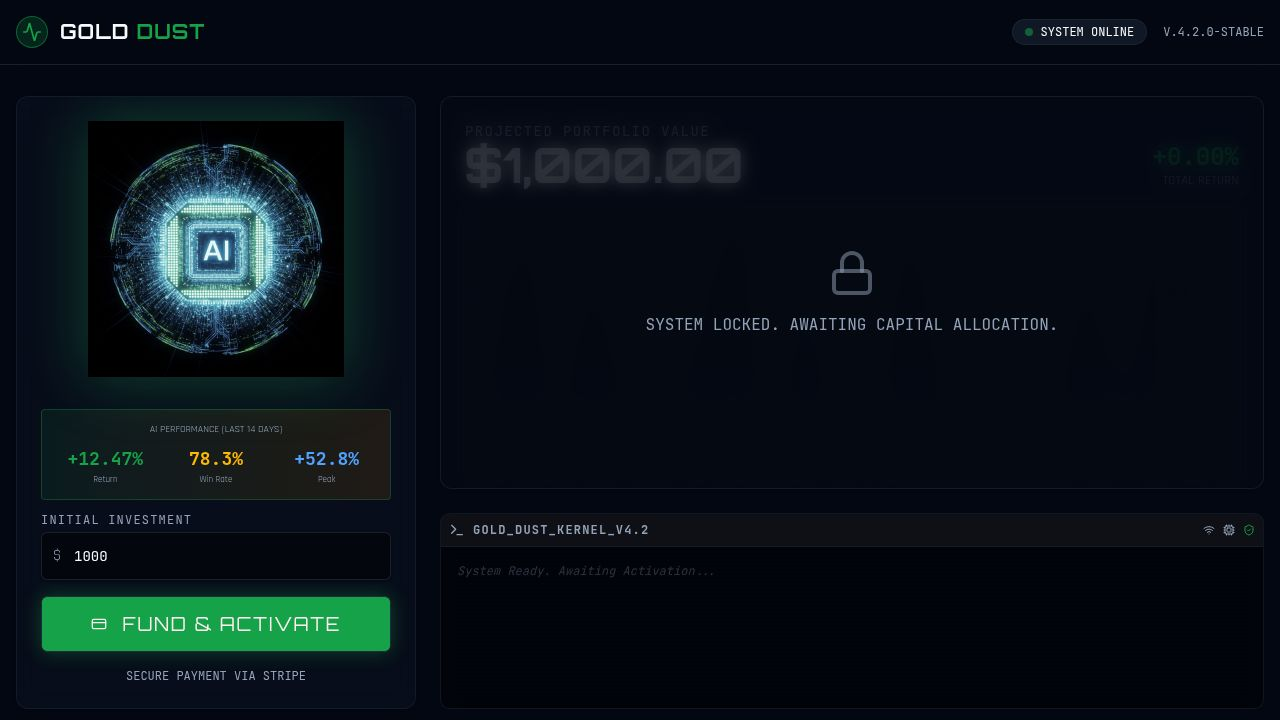
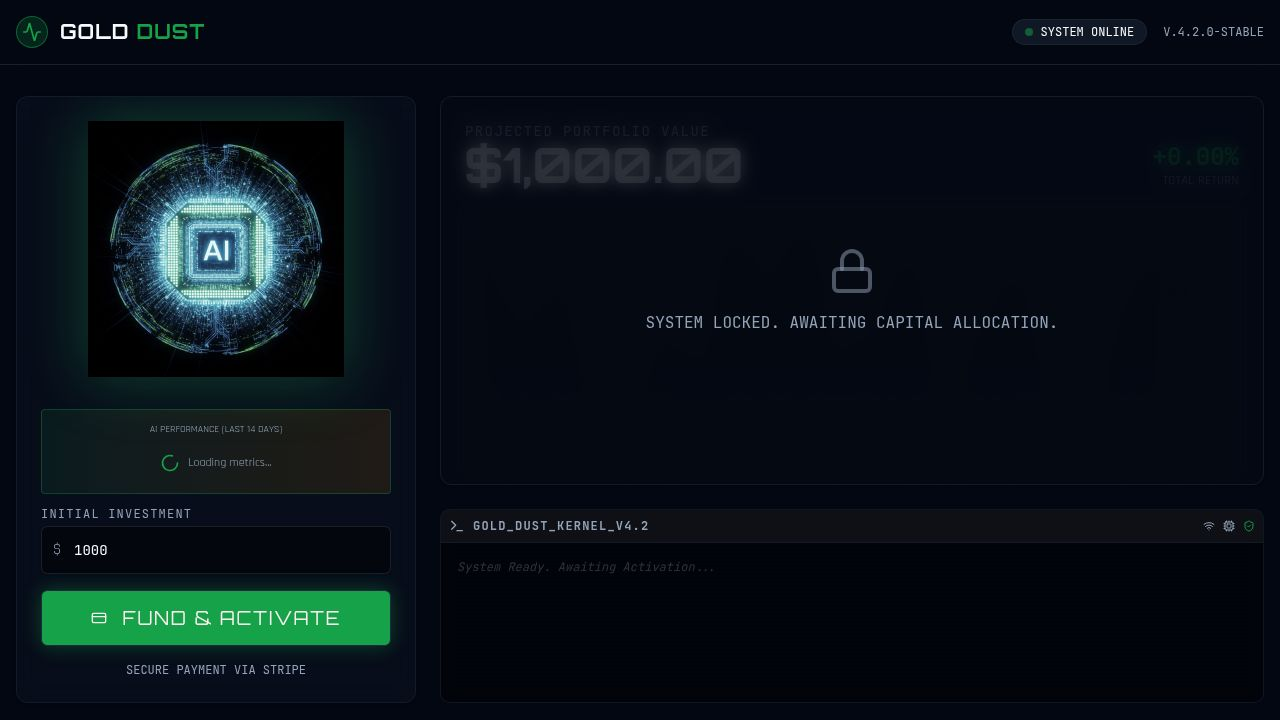
Add caching to backtest results to improve performance and avoid API rate limits
Implement caching for backtest results in `server/backtest-service.ts` to reduce redundant API calls to Alpha Vantage and handle rate limits more gracefully.

Replit-Commit-Author: Agent
Replit-Commit-Session-Id: d6838a81-da3b-49fd-92d3-16fa1fef7a90
Replit-Commit-Checkpoint-Type: full_checkpoint
Replit-Commit-Event-Id: 42ade1df-2cae-4665-9e50-0e9010b973bb
Replit-Commit-Screenshot-Url: https://storage.googleapis.com/screenshot-production-us-central1/cb1580f3-dca7-4a51-971d-ad7bc6640d2e/d6838a81-da3b-49fd-92d3-16fa1fef7a90/I9fVZWX
Replit-Helium-Checkpoint-Created: true

diff --git a/server/backtest-service.ts b/server/backtest-service.ts
@@ -53,9 +53,31 @@ export interface AggregateBacktestResult {
 class BacktestService {
   private apiKey: string;
   private baseUrl = "https://www.alphavantage.co/query";
+  private resultCache: Map<string, { data: AggregateBacktestResult; timestamp: number }> = new Map();
+  private cacheExpiry = 30 * 60 * 1000; // 30 minutes cache
 
   constructor() {
     this.apiKey = process.env.ALPHA_VANTAGE_API_KEY || "";
+  }
+
+  private getCacheKey(symbols: string[], days: number): string {
+    return `${symbols.sort().join(',')}_${days}`;
+  }
+
+  private getCachedResult(symbols: string[], days: number): AggregateBacktestResult | null {
+    const key = this.getCacheKey(symbols, days);
+    const cached = this.resultCache.get(key);
+    if (cached && Date.now() - cached.timestamp < this.cacheExpiry) {
+      console.log(`Returning cached backtest results for ${key}`);
+      return cached.data;
+    }
+    return null;
+  }
+
+  private setCachedResult(symbols: string[], days: number, data: AggregateBacktestResult): void {
+    const key = this.getCacheKey(symbols, days);
+    this.resultCache.set(key, { data, timestamp: Date.now() });
+    console.log(`Cached backtest results for ${key}`);
   }
 
   private async fetchHistoricalData(symbol: string): Promise<HistoricalData[]> {
@@ -263,6 +285,11 @@ class BacktestService {
   }
 
   async runAggregateBacktest(symbols: string[], days: number = 14): Promise<AggregateBacktestResult> {
+    const cached = this.getCachedResult(symbols, days);
+    if (cached) {
+      return cached;
+    }
+
     const results: BacktestResult[] = [];
 
     for (const symbol of symbols) {
@@ -298,7 +325,7 @@ class BacktestService {
     const outperformsSP500 = avgTotalReturn > sp500AvgReturn;
     const sp500Comparison = avgTotalReturn - sp500AvgReturn;
 
-    return {
+    const result: AggregateBacktestResult = {
       period: `${days} days`,
       symbols,
       totalTrades,
@@ -314,6 +341,12 @@ class BacktestService {
       sp500Comparison,
       results,
     };
+
+    if (results.length > 0) {
+      this.setCachedResult(symbols, days, result);
+    }
+
+    return result;
   }
 }
 
